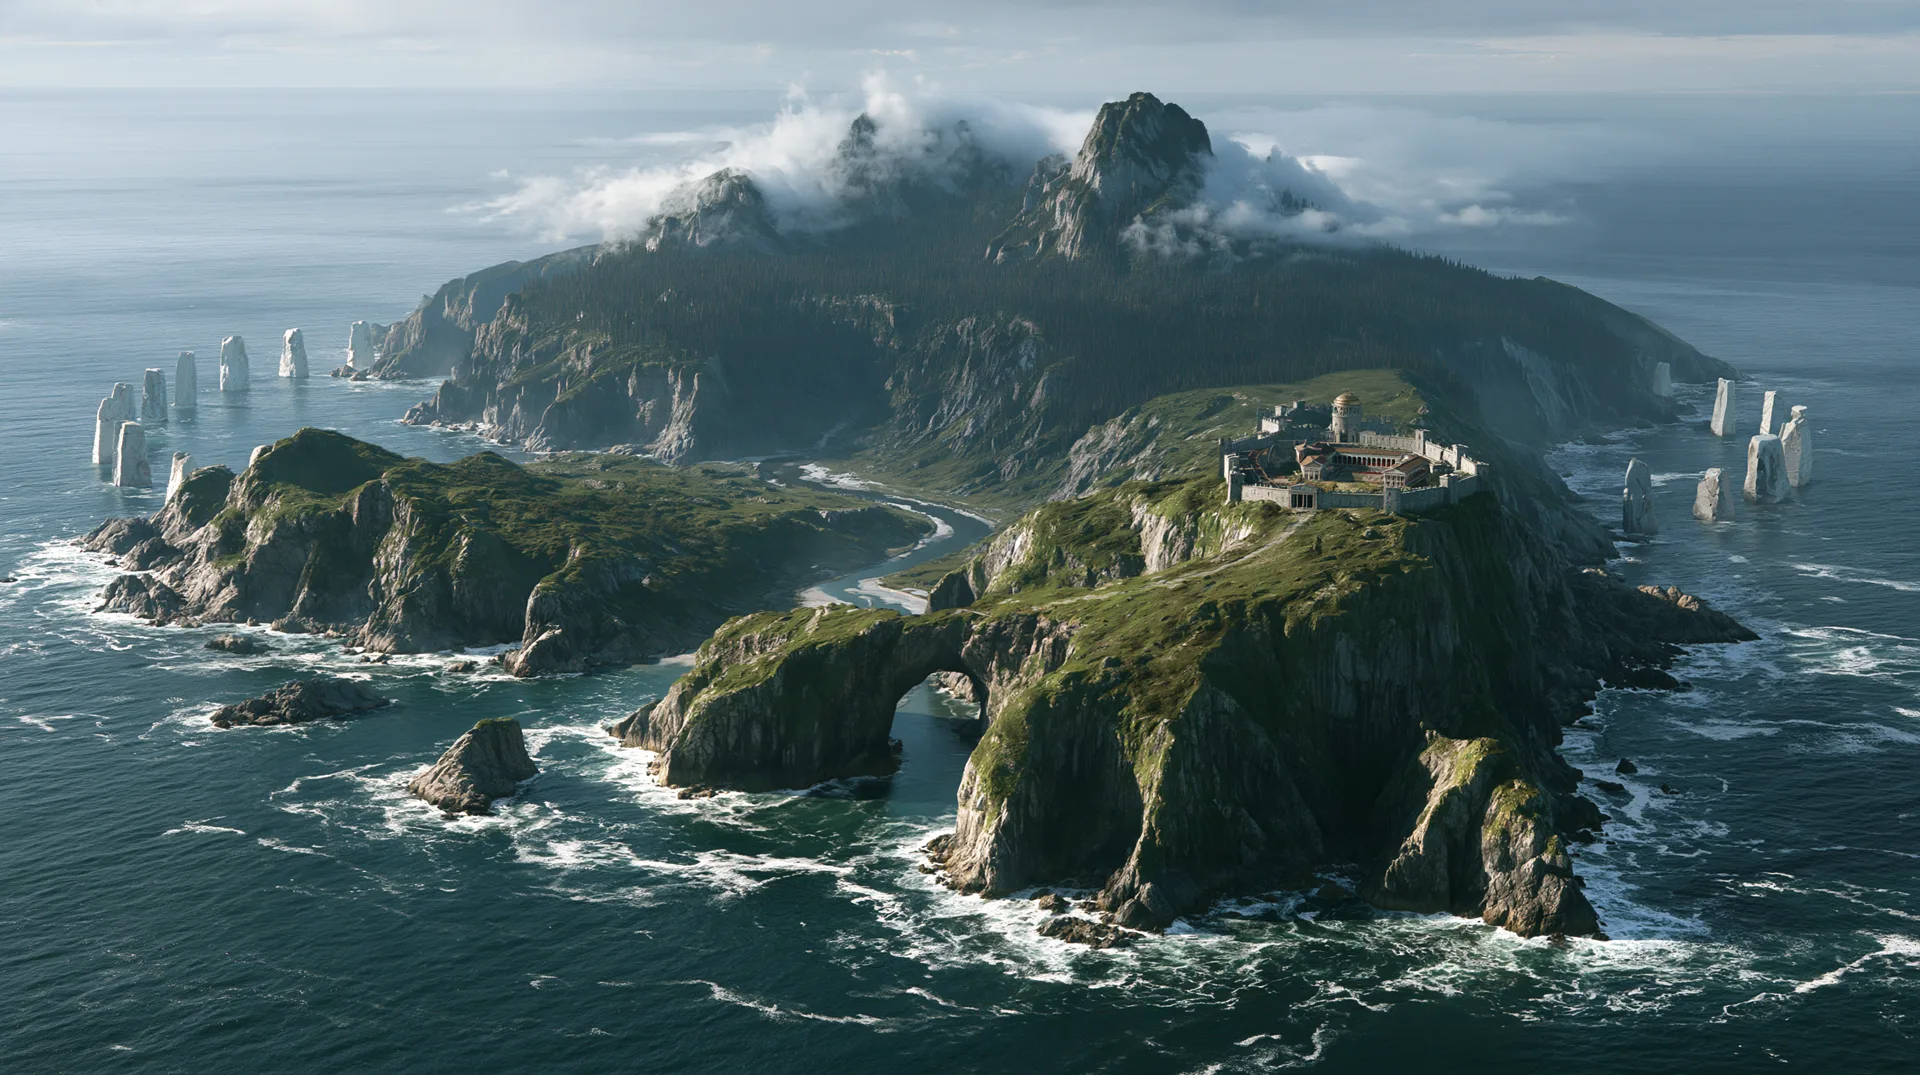
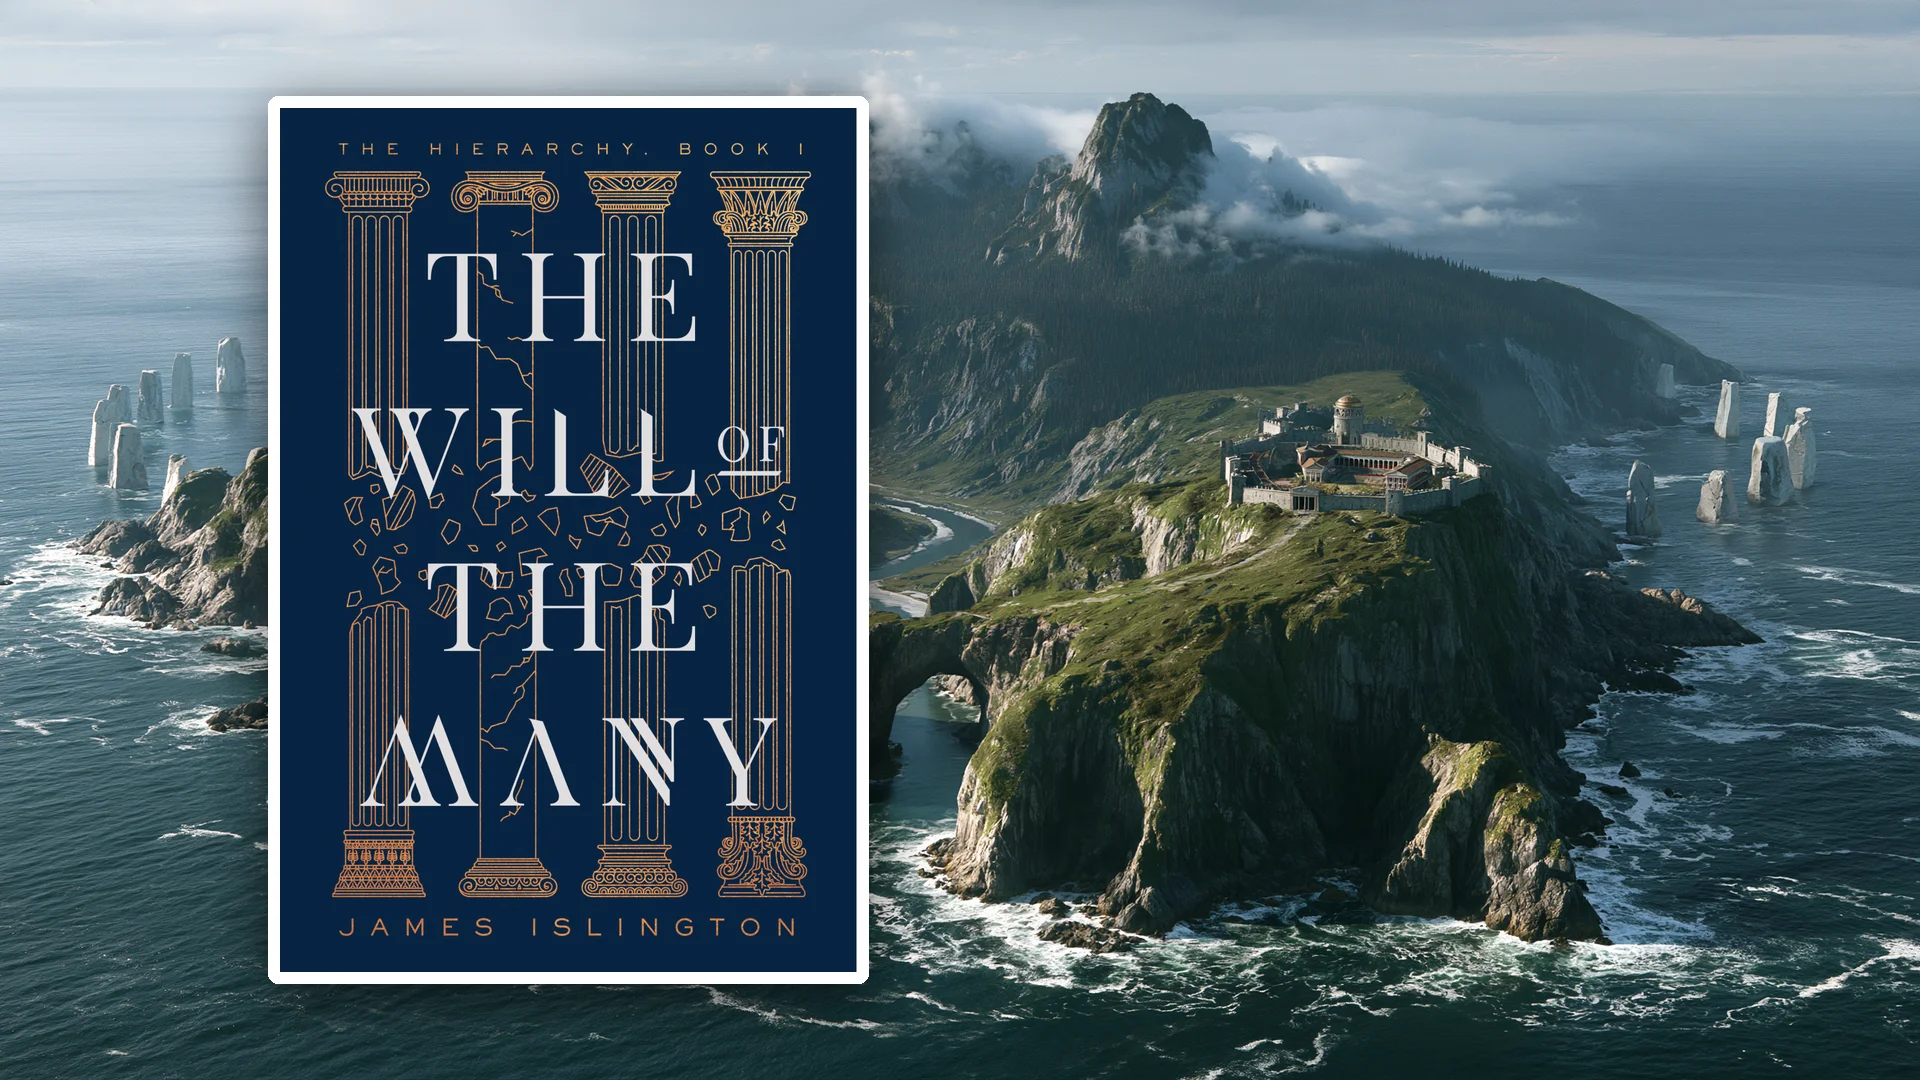
Add scramble + underline-wipe link hover effect and new Will of the Many cover

diff --git a/src/styles/global.css b/src/styles/global.css
@@ -89,3 +89,64 @@
   font-size: 0.875em;
   color: var(--tw-prose-captions);
 }
+
+/* Link hover: underline wipes in from the left and back out to the right.
+   Card links (anything wrapping images or block content) are left alone.
+   Drawn with a background so it follows links that wrap onto a second line. */
+a:not(:has(img, picture, svg, video, div, p, h1, h2, h3, h4, h5, h6)) {
+  text-decoration: none;
+  padding-bottom: 2px;
+  background-image: linear-gradient(currentColor, currentColor);
+  background-repeat: no-repeat;
+  background-position: 100% 100%;
+  background-size: 0% 1px;
+  -webkit-box-decoration-break: clone;
+  box-decoration-break: clone;
+  transition:
+    background-size 0.4s cubic-bezier(0.2, 0.8, 0.2, 1),
+    color 0.15s ease;
+}
+
+a:not(:has(img, picture, svg, video, div, p, h1, h2, h3, h4, h5, h6)):is(:hover, :focus-visible) {
+  background-position: 0 100%;
+  background-size: 100% 1px;
+}
+
+/* Links inside running text keep a dim resting underline so they still read as links. */
+.prose a:not(:has(img, picture, svg, video)),
+a.link-underline {
+  background-image:
+    linear-gradient(currentColor, currentColor),
+    linear-gradient(var(--color-border-strong), var(--color-border-strong));
+  background-position: 100% 100%, 0 100%;
+  background-size: 0% 1px, 100% 1px;
+}
+
+.prose a:not(:has(img, picture, svg, video)):is(:hover, :focus-visible),
+a.link-underline:is(:hover, :focus-visible) {
+  background-position: 0 100%, 0 100%;
+  background-size: 100% 1px, 100% 1px;
+}
+
+/* Scramble overlay added by the script in BaseLayout while a link is hovered. */
+.link-scramble {
+  position: relative;
+}
+
+.link-scramble > [data-source] {
+  color: transparent;
+}
+
+.link-scramble > [data-fx] {
+  position: absolute;
+  top: 0;
+  left: 0;
+  white-space: nowrap;
+  pointer-events: none;
+}
+
+@media (prefers-reduced-motion: reduce) {
+  a {
+    transition: none !important;
+  }
+}
